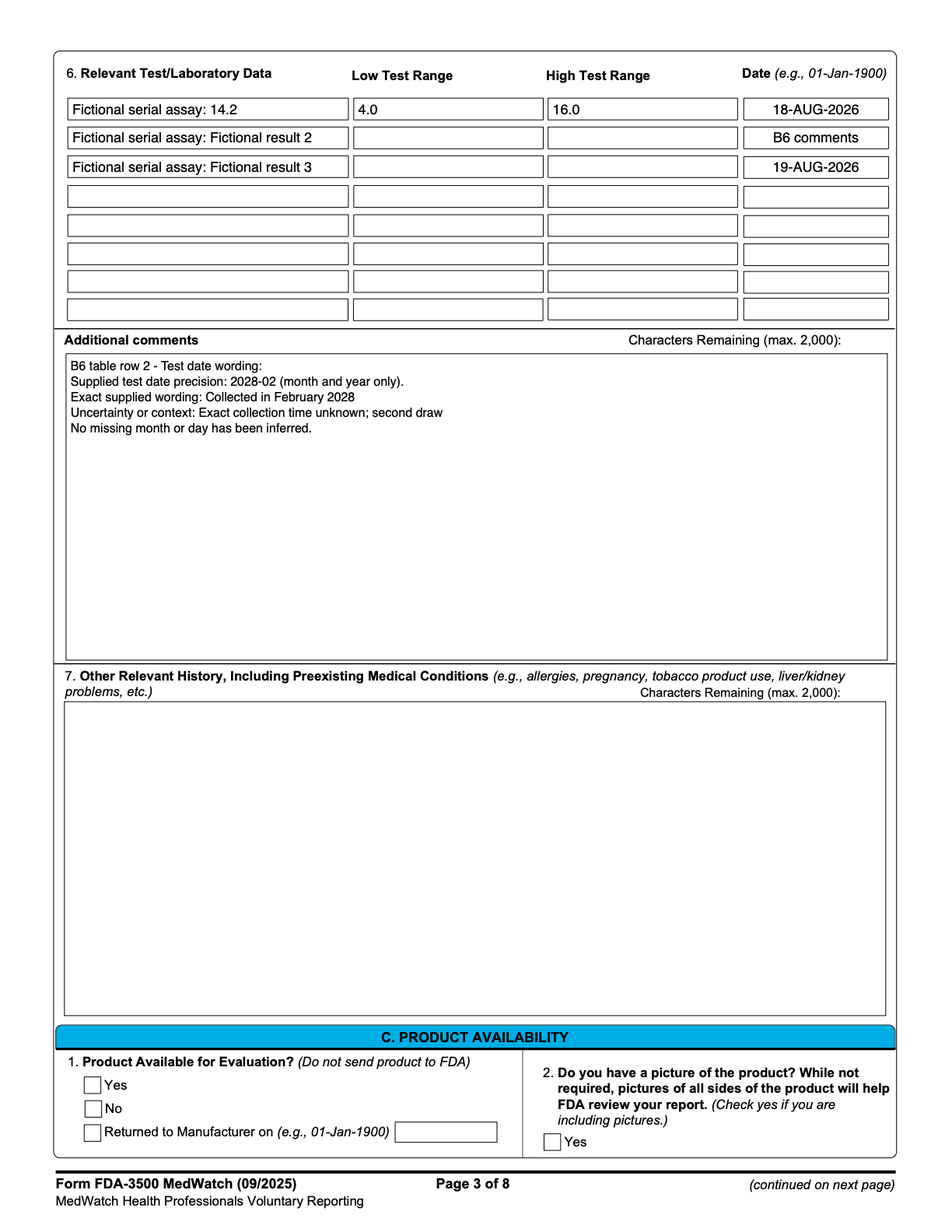
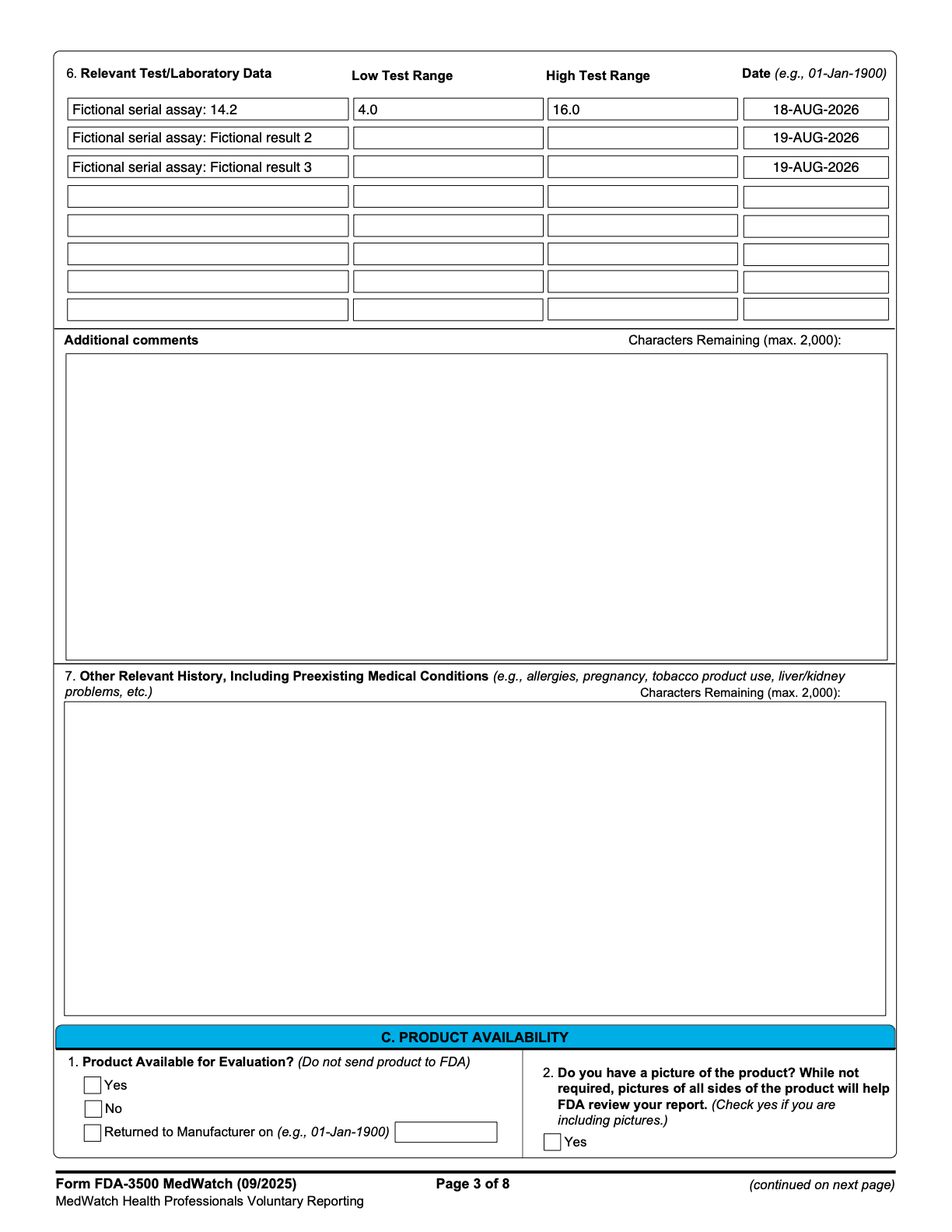
Clarify partial-date headings and prompt rules; correct B6 evidence claims

Changed region(s): [[0.0621, 0.2784, 0.4657, 0.3712], [0.8072, 0.0928, 0.9003, 0.1237]]

diff --git a/src/server/model/anthropic-journey.ts b/src/server/model/anthropic-journey.ts
@@ -88,8 +88,8 @@ Rules:
 - Product otherProductTypes holds only explicitly supplied FDA D5 Other Product Types selections: a nonempty unique array containing cannabinoid-hemp, other, or both when explicitly stated. D5 is Check all that apply; the separate cosmeticUse subgroup remains Select One. Do not infer from CBD/name/ingredients, missing labels, productType=other, drug/cosmetic labels or role. Never infer drug classification or change reporting productType/role from these selections, or vice versa. Preserve separately supplied combinations, exact source/qualifier/history and named-product corrections. Unknown/declined/inapplicable/explicitly absent remain distinct; omitted selections stay unmentioned.
 - Product cosmeticUse is a single explicitly supplied cosmetic D5 choice: professional-use-only (Cosmetics for professional use only) or retail (Cosmetics sold on a retail basis). The subgroup is Select One, not two booleans. Never infer from name, brand, seller, actual user or professional operator. Do not infer or change productType or medicationType from this choice, or this choice from those facts. Preserve separately supplied drug labels. Contradictory explicit alternatives require separate alternative proposals and clinician resolution, never choose for the clinician. Whole-choice corrections replace only this target with exact source/qualifier/history. Omitted, unknown, declined, inapplicable and explicitly absent remain distinct.
 - Product purchaseSellerName, purchaseSellerAddress, purchaseSellerCity, purchaseSellerRegion, purchaseSellerPostalCode, purchaseSellerCountry and purchaseWebsite are independent explicitly supplied seller/place-of-purchase details for the identified product, NOT manufacturer/reprocessor/reporter data. Preserve exact text, leading zeros, punctuation, country wording and website, with exact source/qualifier. Never infer a country or address component from geography, name, website, postal code or another person/product. Do not default, normalize, geocode, fetch URLs, fill missing parts or derive a seller from a manufacturer. Corrections change only explicitly identified facts; separate product identities and all other metadata stay unchanged. Unmatched country wording is retained rather than guessed. Explicitly unknown country information uses the unknown value status, never a known literal UNKNOWN. Country case/outer-space display formatting does not change raw accepted wording; never expand an alias or infer geography.
-- Product purchaseDate is the explicitly supplied complete date of purchase of that identified product, in valid Gregorian YYYY-MM-DD. Preserve it independently of all other dates. Never infer a purchase date from therapy, expiration, report, event or return dates, manufacturer, seller or product identity; never fill missing components, calculate, repair impossible dates or resolve contradictions. Partial dates are unsupported. Preserve exact estimates with qualifier/source; corrections change only the identified fact and require clinician review.
-- Product doseReductionDate is the explicitly supplied complete date on which that product dose was reduced, in Gregorian YYYY-MM-DD. Preserve it independently of doseReduced, start/stop dates, ongoing status and event dates. Never infer reduction=true from the date or a date from any other fact, repair an impossible date, fill missing components, calculate dates, or resolve contradictory supplied statements. Partial or impossible dates are unsupported, never approximate them. A complete explicitly estimated date retains its exact qualifier. Explicit corrections replace only the identified supplied fact with source/history; all proposals require clinician review.
+- Product purchaseDate is the explicitly supplied date of purchase of that identified product, as a valid Gregorian YYYY-MM-DD string or a supported explicit month/year or year-only precision object with exact wording. Preserve it independently of all other dates. Never infer a purchase date from therapy, expiration, report, event or return dates, manufacturer, seller or product identity; never fill missing components, calculate, repair impossible dates or resolve contradictions. Preserve supported partial precision objects with exact wording and estimates with qualifier/source; corrections change only the identified fact and require clinician review.
+- Product doseReductionDate is the explicitly supplied date on which that product dose was reduced, as a Gregorian YYYY-MM-DD string or a supported explicit month/year or year-only precision object with exact wording. Preserve it independently of doseReduced, start/stop dates, ongoing status and event dates. Never infer reduction=true from the date or a date from any other fact, repair an impossible date, fill missing components, calculate dates, or resolve contradictory supplied statements. Impossible dates and expressions outside supported complete/month/year precision are unsupported; never approximate them. A complete explicitly estimated date retains its exact qualifier. Explicit corrections replace only the identified supplied fact with source/history; all proposals require clinician review.
 - Product therapyOngoing is the explicitly supplied current answer to Section D3 "Is therapy/usage still on-going?". Propose known true only for an explicit ongoing statement and known false only for an explicit not-ongoing statement. A missing stop date, historical stopping, restarting or dose reduction does not establish current status. Never derive status from dates, overwrite dates, infer stopped from therapyOngoing, or resolve contradictory statements by guesswork. Preserve supplied status and dates independently with exact source/qualifier, and use correction only for an explicit correction. Unknown, declined and not mentioned stay distinct. All proposals require clinician review.
 - Patient ageYears is one atomic age at event onset: whole years use the existing numeric value; explicitly supplied whole months, weeks or days use {value: the stated number, unit: "months", "weeks" or "days"}. The legacy target name does not make a months/weeks/days value into years. Preserve the stated value and unit without rounding, converting units, calculating age from dates or inferring an unmentioned unit. Never turn 24 months into 2 years or 6 weeks into days/months/years or 5 days into 0 years. Never place gestational age, gestation at birth, or corrected/postmenstrual age in ageYears; those are outside this patient-age target. Do not infer chronological age from them or interpret stated patient age as gestational age. Corrections replace the whole pair on this same target, with source and qualifier preserved. Fractional/compound ages are outside this slice; never approximate them to a supported unit.
 - Patient raceEthnicity is the combined A5 select-all list, ONLY categories explicitly reported in the current clinician input as patient-provided race and/or ethnicity. An explicit clinician report such as "a 58-year-old Asian woman" supplies the stated Asian category; no special self-description wording is required. Never infer a category from name, appearance, geography, nationality, ancestry, language, religion, or anything else. Never guess broader categories from an unsupported identity. Preserve explicitly supplied multiple categories and whole-list corrections; do not add/remove an unmentioned category or treat unchecked boxes as negative responses. Unknown/unavailable, declined, and an explicit none-of-the-listed-categories response are distinct from not mentioned (omit). For this A5 target, an explicit "none of the listed categories apply" response maps to explicitly-absent, meaning none of the listed categories, never absence of race or ethnicity. Unknown maps to unknown; refusal maps to declined; no mention means omit. Unsupported identity wording alone must not be converted to any listed category. Use known with a nonempty unique supported list; never known with an empty list. When known categories accompany an explicitly unknown/declined part, negative statement or additional identity wording, retain the known selections and exact extra context as a qualifier, rather than clearing them or inferring another selection. Qualifiers apply to the whole list, never guessed item attribution. All proposals require explicit clinician review.
@@ -99,7 +99,7 @@ Rules:
 - Product expirationDate is an explicitly supplied expiration/best-by/use-by date. Complete dates use YYYY-MM-DD. For explicitly supplied month/year only use {precision:"month",year:"YYYY",month:"MM",wording:"exact supplied expiration statement"}; for year only use {precision:"year",year:"YYYY",wording:"exact supplied expiration statement"}. Retain the precise supplied wording in wording and cite its passage; preserve uncertainty with qualifier. Propose partial expiration facts for human review rather than omitting them. Do not parse unrelated numbers into dates. Keep it with the identified product, separate from startDate, stopDate, return or explant dates. Never infer a missing day/month or judge whether the product was expired.
 - medicationType contains only explicitly supplied brand, generic-biosimilar, otc or compounded labels; preserve combinations. A generic molecule name alone does not establish generic-biosimilar or brand. Never infer product-label subtype from the product category.
 - A medicine or other product named only as treatment administered in response to the adverse event belongs in event.treatments. Propose it as a report product only when the clinician separately describes it as suspect, concomitant, or otherwise involved in the report.
-- Use normalized ISO dates (YYYY-MM-DD) for complete dates; supported partial product date values retain their explicit precision object and exact wording. Use "oral" for "by mouth". Otherwise preserve explicitly stated descriptive detail in known values; do not compress away modifiers that make a clinical statement more specific. Retain measurement values with their units.
+- Use normalized ISO dates (YYYY-MM-DD) for complete dates; supported partial product and test date values retain their explicit precision object and exact wording. Use "oral" for "by mouth". Otherwise preserve explicitly stated descriptive detail in known values; do not compress away modifiers that make a clinical statement more specific. Retain measurement values with their units.
 - On opening input, declare each mentioned product once using arbitrary response-local productReference and groupReference values. Use those references for its proposals. Wilson—not you—assigns stable case identity.
 - On later input, declare no products. Refer to an existing product only by an exact application-supplied product ID from the reviewed-case context. A repeated name or alias does not create identity.
 - proposalReference and groupReference are response-local linkage values, not case IDs. Every declared test and product requires its own distinct groupReference; never reuse one group for different tests or products. All proposals for that entity use its declared groupReference. Keep later update groups within one existing case entity as well.

diff --git a/tests/e2e/zzzzzzzzzzzzzzzzz-test-date-precision.spec.ts b/tests/e2e/zzzzzzzzzzzzzzzzz-test-date-precision.spec.ts
@@ -3,5 +3,5 @@ const comments='topmostSubform[0].Page3[0].AdditionalComments[0]';const saved=as
 async function seed(page:Page,c=testDateCase()){let unexpected=0;await page.route('**/api/case',async r=>{const b=r.request().method()==='POST'?r.request().postDataJSON():undefined;if(r.request().method()!=='POST'||b?.operation==='resume'||['set-fact','review-update-group','answer-clinical-context'].includes(b?.action?.action))await r.continue();else{unexpected++;await r.abort();}});await page.goto('/');await seedStoredState(page,{version:browserStateVersion,stage:'output',case:c,unrepresented:[]});await page.reload();await saved(page);return()=>expect(unexpected).toBe(0);}
 async function edit(page:Page){await goTo(page,'Review details');const card=page.locator('#case-card-test-2');let row=card.locator('[data-field="date"]');if(!await row.count())await card.getByRole('button',{name:/^Show more fields/}).click();await row.getByRole('button',{name:'Change',exact:true}).click();return row;}
 async function pdf(page:Page,path:string){await(await savePdf(page)).saveAs(path);return JSON.parse((await promisify(execFile)(process.env.PYPDF_PYTHON??'python3',['tools/pdf/independent_readback.py',path,'--named','--page-text'])).stdout);}
-test('one same-named observation keeps source/identity through conversational partial-date review, resume, correction and Unknown export invalidation',async({page},info)=>{const c=testDateCase(),noModel=await seed(page,c);await page.route('**/api/case',async r=>{const b=r.request().postDataJSON();if(b?.action?.action!=='submit-update')return r.fallback();const repo=new InMemoryCaseRepository({initialCase:b.state.case});const s=await performJourneyAction(repo,b.state.case.id,b.action,{propose:async(_turn,text)=>({envelope:parseQuotedFixture({turn:'correction',input:{id:'test-date-input',type:'correction',text,recordedAt:'2026-10-16T00:00:00Z'},existingTestIds:b.state.case.relevantTests.map((t:{id:string})=>t.id),output:{products:[],proposals:[{proposalReference:'date',groupReference:'date',intent:'correction',target:{entity:'test',testReference:b.state.case.relevantTests[1].id,field:'date'},value:{kind:'known',value:monthTestDate,qualifier:'Exact collection time unknown; second draw'},evidenceQuote:monthTestDate.wording}]}},(k,r)=>`${k}-${r}`)})});await r.fulfill({json:await journeyResponse(repo,s)});});await goTo(page,'Review details');await page.getByLabel('Clinical update',{exact:true}).fill('For the second Fictional serial assay only: '+monthTestDate.wording+'. Exact collection time unknown; second draw.');await serverAction(page,()=>page.getByRole('button',{name:'Prepare changes for review',exact:true}).click());expect((await storedState(page)).case.relevantTests[1].facts.date.resolvedValue).toEqual(c.relevantTests[1].facts.date.resolvedValue);expect((await storedState(page)).case.relevantTests[1].id).toBe(c.relevantTests[1].id);await serverAction(page,()=>page.getByRole('button',{name:'Accept these changes',exact:true}).click());await saved(page);await page.reload();await saved(page);const before=(await storedState(page)).case;expect(before.relevantTests[0]).toEqual(c.relevantTests[0]);expect(before.relevantTests[2]).toEqual(c.relevantTests[2]);expect(before.products).toEqual(c.products);expect(before.event).toEqual(c.event);expect(before.relevantTests[1].id).toBe(c.relevantTests[1].id);await writeFile(info.outputPath('test-partial-state.json'),JSON.stringify(await storedState(page)));let x=await pdf(page,info.outputPath('test-partial-dates.pdf'));expect(x.namedFields[comments]).toContain('B6 table row 2 - Test date wording:');expect(x.namedFields[comments]).toContain(monthTestDate.wording);let row=await edit(page);await row.getByLabel('Date precision',{exact:true}).selectOption('year');await row.getByLabel('Date year',{exact:true}).fill('2029');await row.getByLabel('Exact supplied date wording',{exact:true}).fill('Collected during 2029');await serverAction(page,()=>row.getByRole('button',{name:'Apply correction',exact:true}).click());x=await pdf(page,info.outputPath('test-partial-corrected.pdf'));expect(x.namedFields[comments]).toContain('Collected during 2029');const corrected=(await storedState(page)).case;const sourceText=corrected.relevantTests[1].facts.date.resolvedValue!.sourceIds.map(id=>corrected.sources.find(s=>s.id===id)!.excerpt).join(' ');expect(sourceText).toContain('Collected during 2029');expect(sourceText).not.toContain('expiration');expect(x.namedFields[comments]).not.toContain(monthTestDate.wording);row=await edit(page);await row.getByLabel('Date status',{exact:true}).selectOption('unknown');await serverAction(page,()=>row.getByRole('button',{name:'Apply correction',exact:true}).click());x=await pdf(page,info.outputPath('test-partial-unknown.pdf'));expect(x.namedFields[comments]??'').not.toContain('Collected during 2029');expect(Object.values(x.namedFields)).not.toContain('B6 comments');noModel();});
+test('one same-named observation keeps source/identity through conversational partial-date review, resume, correction and Unknown export invalidation',async({page},info)=>{const c=testDateCase(),noModel=await seed(page,c);await page.route('**/api/case',async r=>{const b=r.request().postDataJSON();if(b?.action?.action!=='submit-update')return r.fallback();const repo=new InMemoryCaseRepository({initialCase:b.state.case});const s=await performJourneyAction(repo,b.state.case.id,b.action,{propose:async(_turn,text)=>({envelope:parseQuotedFixture({turn:'correction',input:{id:'test-date-input',type:'correction',text,recordedAt:'2026-10-16T00:00:00Z'},existingTestIds:b.state.case.relevantTests.map((t:{id:string})=>t.id),output:{products:[],proposals:[{proposalReference:'date',groupReference:'date',intent:'correction',target:{entity:'test',testReference:b.state.case.relevantTests[1].id,field:'date'},value:{kind:'known',value:monthTestDate,qualifier:'Exact collection time unknown; second draw'},evidenceQuote:monthTestDate.wording}]}},(k,r)=>`${k}-${r}`)})});await r.fulfill({json:await journeyResponse(repo,s)});});await goTo(page,'Review details');await page.getByLabel('Clinical update',{exact:true}).fill('For the second Fictional serial assay only: '+monthTestDate.wording+'. Exact collection time unknown; second draw.');await serverAction(page,()=>page.getByRole('button',{name:'Prepare changes for review',exact:true}).click());expect((await storedState(page)).case.relevantTests[1].facts.date.resolvedValue).toEqual(c.relevantTests[1].facts.date.resolvedValue);expect((await storedState(page)).case.relevantTests[1].id).toBe(c.relevantTests[1].id);await serverAction(page,()=>page.getByRole('button',{name:'Accept these changes',exact:true}).click());await saved(page);await page.reload();await saved(page);await goTo(page,'Review details');await expect(page.locator('#case-card-test-2').getByRole('heading')).toContainText('2028-02 (month and year only)');const before=(await storedState(page)).case;expect(before.relevantTests[0]).toEqual(c.relevantTests[0]);expect(before.relevantTests[2]).toEqual(c.relevantTests[2]);expect(before.products).toEqual(c.products);expect(before.event).toEqual(c.event);expect(before.relevantTests[1].id).toBe(c.relevantTests[1].id);await writeFile(info.outputPath('test-partial-state.json'),JSON.stringify(await storedState(page)));let x=await pdf(page,info.outputPath('test-partial-dates.pdf'));expect(x.namedFields[comments]).toContain('B6 table row 2 - Test date wording:');expect(x.namedFields[comments]).toContain(monthTestDate.wording);let row=await edit(page);await row.getByLabel('Date precision',{exact:true}).selectOption('year');await row.getByLabel('Date year',{exact:true}).fill('2029');await row.getByLabel('Exact supplied date wording',{exact:true}).fill('Collected during 2029');await serverAction(page,()=>row.getByRole('button',{name:'Apply correction',exact:true}).click());x=await pdf(page,info.outputPath('test-partial-corrected.pdf'));expect(x.namedFields[comments]).toContain('Collected during 2029');const corrected=(await storedState(page)).case;const sourceText=corrected.relevantTests[1].facts.date.resolvedValue!.sourceIds.map(id=>corrected.sources.find(s=>s.id===id)!.excerpt).join(' ');expect(sourceText).toContain('Collected during 2029');expect(sourceText).not.toContain('expiration');expect(x.namedFields[comments]).not.toContain(monthTestDate.wording);row=await edit(page);await row.getByLabel('Date status',{exact:true}).selectOption('unknown');await serverAction(page,()=>row.getByRole('button',{name:'Apply correction',exact:true}).click());x=await pdf(page,info.outputPath('test-partial-unknown.pdf'));expect(x.namedFields[comments]??'').not.toContain('Collected during 2029');expect(Object.values(x.namedFields)).not.toContain('B6 comments');noModel();});
 test('optional test-date partial draft survives reload and explicit correction without inferring a result or other facts',async({page},info)=>{const c=missingTestDateContextCase(),noModel=await seed(page,c);await directAnswers(page);await page.getByRole('radio',{name:'Add one relevant result',exact:true}).check();await page.getByLabel('Test identity',{exact:true}).fill('Fictional assay, result not supplied');await page.getByRole('radio',{name:'Unknown',exact:true}).last().check();await expect(page.getByRole('button',{name:'Add this context',exact:true})).toBeEnabled();await page.getByLabel('Test date precision',{exact:true}).selectOption('month');await page.getByLabel('Test date year',{exact:true}).fill('2028');await page.getByLabel('Test date month',{exact:true}).fill('13');await page.getByLabel('Exact supplied test date wording',{exact:true}).fill('Collected February 2028; collection time uncertain');await expect(page.getByRole('button',{name:'Add this context',exact:true})).toBeDisabled();await saved(page);await page.reload();await saved(page);await directAnswers(page);await expect(page.getByLabel('Test date month',{exact:true})).toHaveValue('13');expect((await storedState(page)).case).toEqual(c);await page.getByLabel('Test date month',{exact:true}).fill('02');await serverAction(page,()=>page.getByRole('button',{name:'Add this context',exact:true}).click());const after=(await storedState(page)).case;expect(after.relevantTests).toHaveLength(1);expect(after.relevantTests[0].facts.testResult.state).toBe('empty');expect(after.relevantTests[0].facts.date.resolvedValue?.value).toMatchObject({kind:'known',value:{precision:'month',wording:'Collected February 2028; collection time uncertain'}});expect(after.products).toEqual(c.products);expect(after.patient).toEqual(c.patient);expect(after.event.facts.onsetDate).toEqual(c.event.facts.onsetDate);await page.screenshot({path:info.outputPath('test-date-draft-completed.png'),fullPage:true});noModel();});

diff --git a/tests/pdf/test-date-precision.test.ts b/tests/pdf/test-date-precision.test.ts
@@ -3,7 +3,9 @@ const target=(c:ReturnType<typeof testDateCase>,i=0)=>`test:${c.relevantTests[i]
 async function pdf(c:ReturnType<typeof testDateCase>){const projection=projectForm3500(c),o=await fillForm3500Projection(new Uint8Array(await readFile('assets/fda/form-fda-3500-09-2025.pdf')),projection),path=join(await mkdtemp(join(tmpdir(),'wilson225-')),'test-dates.pdf');await writeFile(path,o.output);const x=JSON.parse((await promisify(execFile)(process.env.PYPDF_PYTHON??'python3',['tools/pdf/independent_readback.py',path,'--named','--page-text'])).stdout);return{x,projection,path};}
 it('prints exact partial date and collection-time context once in B6 comments with the correct same-named observation/native row',async()=>{let c=testDateCase();c=setContextFact(c,target(c,1),{kind:'known',value:monthTestDate,qualifier:'Exact collection time unknown; second draw'});const before=structuredClone(c),{x,projection}=await pdf(c);expect(x.pageCount).toBe(8);expect(x.namedFields['topmostSubform[0].Page3[0].AdditionalComments[0]']).toContain('B6 table row 2 - Test date wording:');expect(x.namedFields['topmostSubform[0].Page3[0].AdditionalComments[0]']).toContain(monthTestDate.wording);expect(x.namedFields['topmostSubform[0].Page3[0].AdditionalComments[0]']).toContain('Exact collection time unknown; second draw');expect(Object.values(x.namedFields).filter(v=>v==='B6 comments')).toHaveLength(1);expect(projection.sections.B.relevantTests[1]).toMatchObject({testId:c.relevantTests[1].id,dateInComments:true});expect(projection.sections.B.relevantTests[1].date).toBeUndefined();expect(projection.sourceTrace['sections.B.relevantTestContext']).toEqual(c.relevantTests[1].facts.date.resolvedValue!.sourceIds);expect(c).toEqual(before);expect((await getJourneySnapshot(new InMemoryCaseRepository({initialCase:c}),c.id)).downloadReady).toBe(true);});
 it('partial-only correction, context and every status changes content/reference and removes obsolete text while preserving history/other observations',async()=>{let c=testDateCase();c=setContextFact(c,target(c),{kind:'known',value:monthTestDate,qualifier:'Old date context'});const key=async(s:typeof c)=>(await getJourneySnapshot(new InMemoryCaseRepository({initialCase:s}),s.id)).reportContentKey,base=await key(c);for(const value of [{kind:'known' as const,value:{precision:'year' as const,year:'2029',wording:'Collected during 2029'},qualifier:'New date context'},{kind:'known' as const,value:'2028-02-29'},...(['unknown','declined','inapplicable','explicitly-absent']as const).map(kind=>({kind}))]){const next=setContextFact(c,target(c),value);expect(await key(next)).not.toBe(base);expect(form3500ReportReference(projectForm3500(next))).not.toBe(form3500ReportReference(projectForm3500(c)));expect(next.relevantTests.slice(1)).toEqual(c.relevantTests.slice(1));expect(next.products).toEqual(c.products);expect(next.event).toEqual(c.event);expect(next.relevantTests[0].facts.date.supersededValues).toContainEqual(c.relevantTests[0].facts.date.resolvedValue);expect(projectForm3500(next).sections.B.relevantTestContext??'').not.toContain(monthTestDate.wording);}const unknown=setContextFact(c,target(c),{kind:'unknown'});expect(Object.values((await pdf(unknown)).x.namedFields)).not.toContain('B6 comments');});
-it('long exact date wording reuses B6 pagination at fixed readable font and keeps the row link/reference across pages',async()=>{const wording=Array.from({length:110},(_,i)=>`Fictional test date line ${i+1}: collected during 2028, exact day unknown.`).join('\n');let c=testDateCase();c=setContextFact(c,target(c,2),{kind:'known',value:{precision:'year',year:'2028',wording}});const {x}=await pdf(c);expect(x.pageCount).toBeGreaterThan(9);expect(x.pageTexts.slice(8).join('\n')).toContain('Fictional test date line 110');expect(x.pageTexts[8]).toContain('B6');expect(x.pageTexts[8]).toContain('B6 table row 3 - Test date wording:');expect(Object.values(x.namedFields)).toContain('B6 comments');});
+it('long exact date wording reuses B6 pagination at fixed readable font and keeps the initial row link and the same report reference across pages',async()=>{const wording=Array.from({length:110},(_,i)=>`Fictional test date line ${i+1}: collected during 2028, exact day unknown.`).join('\n');let c=testDateCase();c=setContextFact(c,target(c,2),{kind:'known',value:{precision:'year',year:'2028',wording}});const {x}=await pdf(c);expect(x.pageCount).toBeGreaterThan(9);expect(x.pageTexts.slice(8).join('\n')).toContain('Fictional test date line 110');expect(x.pageTexts[8]).toContain('B6');expect(x.pageTexts[8]).toContain('B6 table row 3 - Test date wording:');const ref=form3500ReportReference(projectForm3500(c));for(const page of x.pageTexts.slice(8))expect(page).toContain(ref);expect(Object.values(x.namedFields)).toContain('B6 comments');});
 it('genuine v27 resumes unchanged, falsely labelled partial dates are rejected, invalid legacy dates remain retained and block output',async()=>{const c=testDateCase(),state={version:'wilson-browser-state-v27',stage:'output',case:c,unrepresented:[]};expect(parseBrowserJourneyState(state)).toEqual({...state,version:browserStateVersion});const partial=setContextFact(c,target(c),{kind:'known',value:monthTestDate});expect(()=>parseBrowserJourneyState({...state,case:partial})).toThrow();expect(parseBrowserJourneyState({...state,version:browserStateVersion,case:partial}).case).toEqual(partial);const invalid=structuredClone(c);invalid.relevantTests[0].facts.date.resolvedValue!.value={kind:'known',value:'2026-02-30'};expect(parseBrowserJourneyState({...state,case:invalid}).case).toEqual(invalid);expect((await getJourneySnapshot(new InMemoryCaseRepository({initialCase:invalid}),c.id)).downloadReady).toBe(false);});
 it('pending/conflicting partial alternatives do not print; explicit resolution/withdrawal keeps stable identity and alternate history',async()=>{const {applyCaseCommand}=await import('../../src/domain/case/commands');let c=testDateCase();const source=contextSource('test-date-options','February 2028 or during 2029, records disagree.');c=applyCaseCommand(c,{type:'attach-grounded-proposals',commandId:'attach-test-date-options',expectedRevision:c.revision,products:[],sources:[source],proposals:[monthTestDate,{precision:'year' as const,year:'2029',wording:'during 2029'}].map((value,i)=>({proposalId:`test-date-${i}`,groupId:'test-date-options',intent:'alternative' as const,target:{entity:'test' as const,entityId:c.relevantTests[1].id,field:'date' as const},value:{kind:'known' as const,value},sourceIds:[source.id]}))}).case;expect(projectForm3500(c).sections.B.relevantTestContext??'').not.toContain(monthTestDate.wording);c=applyCaseCommand(c,{type:'review-proposal-groups',commandId:'review-test-date-options',expectedRevision:c.revision,decisions:[{groupId:'test-date-options',action:'accept'}]}).case;expect(c.relevantTests[1].facts.date.state).toBe('conflicted');expect(projectForm3500(c).sections.B.relevantTests[1].dateInComments).toBeUndefined();c=applyCaseCommand(c,{type:'resolve-conflict',commandId:'resolve-test-date',expectedRevision:c.revision,target:{entity:'test',entityId:c.relevantTests[1].id,field:'date'},chosenValueId:'test-date-1',source:contextSource('select-test-date')}).case;expect(projectForm3500(c).sections.B.relevantTestContext).toContain('during 2029');expect(c.relevantTests[1].facts.date.supersededValues.some(v=>v.id==='test-date-0')).toBe(true);const id=c.relevantTests[1].id;c=applyCaseCommand(c,{type:'withdraw-case-entity',commandId:'withdraw-test',expectedRevision:c.revision,target:{entity:'test',entityId:id},source:contextSource('withdraw-test')}).case;expect(projectForm3500(c).sections.B.relevantTestContext??'').not.toContain('during 2029');});
 it('targets unsupported glyphs to the observation date; adapter independently rejects dangling row pointers',async()=>{let c=testDateCase();c=setContextFact(c,target(c,1),{kind:'known',value:{...monthTestDate,wording:'Collected in February 2028 漢'}});const snapshot=await getJourneySnapshot(new InMemoryCaseRepository({initialCase:c}),c.id);expect(snapshot.downloadReady).toBe(false);expect(snapshot.outputIssues.some(i=>i.targets.includes(target(c,1)))).toBe(true);const p=projectForm3500(testDateCase());p.sections.B.relevantTests[0].date=undefined;p.sections.B.relevantTests[0].dateInComments=true;await expect(fillForm3500Projection(new Uint8Array(await readFile('assets/fda/form-fda-3500-09-2025.pdf')),p)).rejects.toThrow('own row-linked comments');});
+
+it("keeps an all-complete observation case native without B6 date pointers or partial notes",async()=>{const {x}=await pdf(testDateCase());expect(x.pageCount).toBe(8);expect(Object.entries(x.namedFields).filter(([k,v])=>k.includes(".TDate")&&typeof v==="string"&&/^(18|19)-AUG-2026$/.test(v))).toHaveLength(3);expect(Object.values(x.namedFields)).not.toContain("B6 comments");expect(x.namedFields["topmostSubform[0].Page3[0].AdditionalComments[0]"]??"").not.toContain("Test date wording:");});

diff --git a/src/domain/case/test-label.ts b/src/domain/case/test-label.ts
@@ -1,15 +1,18 @@
+import {isPartialDate} from "./date-precision";
 import type { FactView, RelevantTestView } from "./views";
 
-function knownLabel(test: RelevantTestView | undefined, fact: FactView | undefined): string | undefined {
+function knownValue(test: RelevantTestView | undefined, fact: FactView | undefined): unknown {
   if (fact?.conflicts.length) return undefined;
   // Only a proposed entity owns unaccepted values on its card. Later updates
   // belong to their separate review panel, even when an accepted fact is empty.
   const value = fact?.resolved ?? (test?.state === "proposed"
     ? fact?.proposals.find(proposal => proposal.groupId === test.proposalGroupId)?.value : undefined);
-  return value?.kind === "known" && typeof value.value === "string" ? value.value.trim() || undefined : undefined;
+  return value?.kind === "known" ? value.value : undefined;
 }
 
-function displayDate(value: string): string {
+function displayDate(value: unknown): string | undefined {
+  if(isPartialDate(value))return value.precision==="month"?`${value.year}-${value.month} (month and year only)`:`${value.year} (year only)`;
+  if(typeof value!=="string"||!value.trim())return undefined;
   const [year, month, day] = value.split("-");
   const name = ["Jan", "Feb", "Mar", "Apr", "May", "Jun", "Jul", "Aug", "Sep", "Oct", "Nov", "Dec"][Number(month) - 1];
   return `${Number(day)}-${name}-${year}`;
@@ -19,8 +22,9 @@ function displayDate(value: string): string {
  * Keep an ordinal even for identical names/dates; no missing date is inferred.
  * A pending update cannot silently rename an already accepted observation. */
 export function testDisplayLabel(test: RelevantTestView | undefined, ordinal: number): string {
-  const name = knownLabel(test, test?.facts.testName);
+  const suppliedName=knownValue(test,test?.facts.testName);
+  const name=typeof suppliedName==="string"?suppliedName.trim():undefined;
   if (!name) return `Relevant test ${ordinal}`;
-  const date = knownLabel(test, test?.facts.date);
-  return `${name}${date ? ` — ${displayDate(date)}` : ""} (test ${ordinal})`;
+  const date = displayDate(knownValue(test, test?.facts.date));
+  return `${name}${date ? ` — ${date}` : ""} (test ${ordinal})`;
 }

diff --git a/tests/domain/test-label.test.ts b/tests/domain/test-label.test.ts
@@ -47,3 +47,5 @@ describe("test display labels", () => {
     expect(testDisplayLabel(observation(fact(known(name)), date), 1)).toBe(`${name} (test 1)`);
   });
 });
+
+it("shows supplied partial precision without a day, keeps accepted dates during pending corrections and omits conflicted partial dates",()=>{const month={kind:"known" as const,value:{precision:"month",year:"2028",month:"02",wording:"Collected February 2028"}};const year={kind:"known" as const,value:{precision:"year",year:"2029",wording:"Collected during 2029"}};const test=observation(fact(known("Same assay")),fact(month,year)),before=structuredClone(test);expect(testDisplayLabel(test,2)).toBe("Same assay — 2028-02 (month and year only) (test 2)");expect(testDisplayLabel(observation(fact(known("Same assay")),fact(year)),3)).toBe("Same assay — 2029 (year only) (test 3)");expect(testDisplayLabel({...observation(fact(known("Same assay")),fact(undefined,month)),state:"proposed"},1)).toBe("Same assay — 2028-02 (month and year only) (test 1)");expect(test).toEqual(before);test.facts.date.conflicts=[{id:"c",value:year,evidence:[]}];expect(testDisplayLabel(test,2)).toBe("Same assay (test 2)");});

diff --git a/tests/server/anthropic-journey.test.ts b/tests/server/anthropic-journey.test.ts
@@ -85,7 +85,7 @@ describe("Anthropic production model boundary", () => {
     expect(requestText).toContain("or propose d3Value (an explicit clinician-only print preference)");
 
     expect(requestText).toContain("Never infer reduction=true from the date or a date from any other fact");
-    expect(requestText).toContain("Partial or impossible dates are unsupported, never approximate them");
+    expect(requestText).toContain("Impossible dates and expressions outside supported complete/month/year precision are unsupported; never approximate them");
 
     expect(requestText).toContain("A missing stop date, historical stopping, restarting or dose reduction does not establish current status");
     expect(requestText).toContain("resolve contradictory statements by guesswork");

diff --git a/evidence/issue-225/README.md b/evidence/issue-225/README.md
@@ -4,8 +4,8 @@ Fictional data only. Explicit month/year and year-only test dates retain exact w
 
 Official B6 instructions place relevant observations/dates in B6 and allow additional comments/attachments. The pinned09/2025 form has a date cell per native observation and an Additional comments box: https://www.fda.gov/safety/medwatch-forms-fda-safety-reporting/instructions-completing-form-fda-3500
 
-Local checks:1,047 units/100 files, typecheck/build and two focused mocked browser journeys passed. Full163-journey suite is running. Five PDFs/seven PDFKit captures have independent pypdf field/text readbacks. Short notes stay within the native8-page report; dense110-line wording uses11 pages with fixed10pt body and one report reference. Representative native/continuation/corrected pages inspected: readable/unclipped, correct row2/row3 attribution. Short native reports have no new detached-reference page. Content keys/references change with section content; corrections/Unknown remove obsolete wording/markers while other observations/fields remain unchanged.
+Local checks:1,049 units/100 files, typecheck/build and two focused mocked browser journeys passed. The initial full163-journey run passed; the final review-remediation rerun is in progress. Five distinct PDFs/seven PDFKit captures have independent pypdf field/text readbacks, including a genuine all-complete native baseline. Short notes stay within the native8-page report; dense110-line wording uses11 pages with fixed10pt body and one report reference. The row label begins each entry; later continuation pages repeat the B6 block/reference and pagination, not a per-observation heading. Representative native/continuation/corrected pages inspected: readable/unclipped, correct row2/row3 attribution. Short native reports have no new detached-reference page. Content keys/references change with section content; corrections/Unknown remove obsolete wording/markers while other observations/fields remain unchanged.
 
 Browser v28 strictly validates genuine v27 before lossless migration; invalid legacy complete dates remain stored and block fresh output. Invalid optional drafts survive reload without accepted-fact changes. Source-boundary exact wording/year and malformed/off-target guards apply; collection-time context remains separate. Pending/conflicted/withdrawn partial facts stay unprinted until resolved. Glyph limitations target the actual test/date. Adapter rejects a dangling row pointer or simultaneous full native date.
 
-Actual independent review/remediation/recheck, hosted checks, exact-head CI, guarded squash/tree/branch cleanup/mainCI remain pending at this snapshot. Raw review/execution outcomes will be linked on the slice PR. No new dependencies/live application-model calls, auth/grant/protection changes or new share links. Other DOB/event/return date families and unsupported expressions remain #180; broader glyph/capacity and paused semantic correction remain separate.
+Actual Opus full review found no blockers and four follow-ups. Distinct complete-date baseline evidence, precise continuation claims, partial-date headings and consistent supported-date prompt wording are remediated; targeted recheck, final browser suite, hosted checks, exact-head CI and guarded squash/tree/cleanup/mainCI remain pending at this snapshot. Raw review/execution outcomes will be linked on the slice PR. No new dependencies/live application-model calls, auth/grant/protection changes or new share links. Other DOB/event/return date families and unsupported expressions remain #180; broader glyph/capacity and paused semantic correction remain separate.
